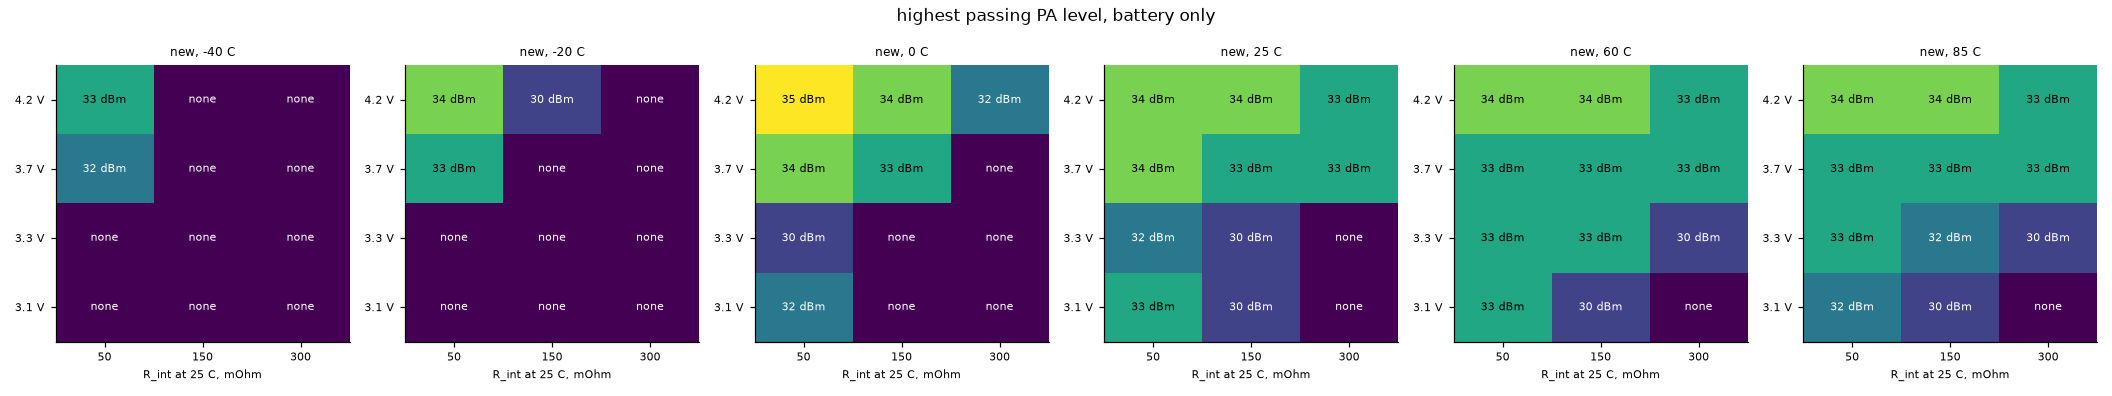
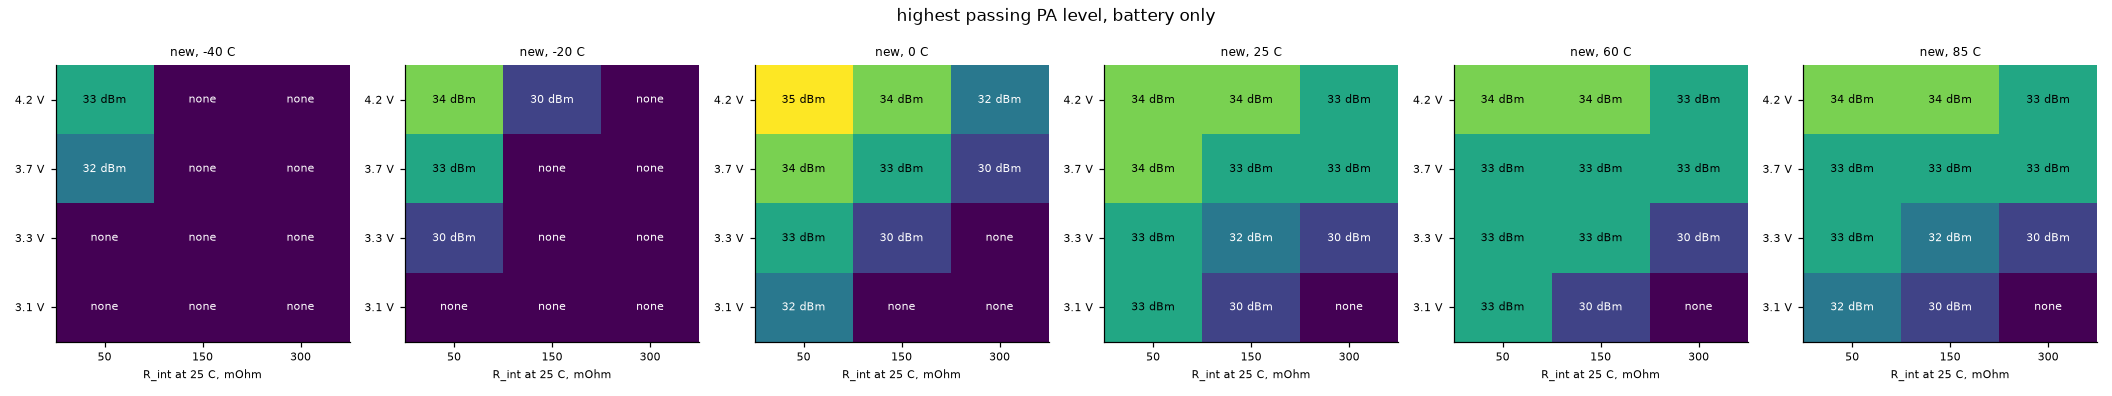
mesh-radio: power-path studies on the routed board
Track and via resistance extracted from the routed copper (sim/extract.py)
replaces the old estimates. The sense loop's 18 mOhm of copper halves the
cell protector's trip, so 3 W bursts no longer pass: a layout fix follows.

Claude-Session: https://claude.ai/code/session_015TBB2ThqxHSgA8MkFosmn9

Changed region(s): [[0.5, 0.5152, 0.6875, 0.697], [0.3438, 0.3333, 0.5, 0.697], [0.1875, 0.5152, 0.25, 0.697]]

diff --git a/mesh-radio/v1/sim/README.md b/mesh-radio/v1/sim/README.md
@@ -50,16 +50,16 @@ as changed on 19 Oct (next section).  Ambient corners -40 / -20 / 0 / 25 /
 | reverse cell into live pads (right-way cell pulled out under USB, then a reversed one) | PASS* | PASS* | PASS* | PASS | PASS | PASS* | 20 Oct: check-FET gate clamped (4.7 V zener): its gate stays in rating. Still 11-12 A (20-21 A before the routed board's copper) for ~0.2 ms until the protector trips (reverse FET 48 A pulsed rating). *At <= 0 C and (routed board) at 85 C the solver started unlatched, so those runs did not test it |
 | right-way cell, with and without USB | PASS | PASS | PASS | PASS | PASS | PASS | FET on ~3 ms after the plug |
 | shorts: 3V3 (also with USB), header 3V3, VPA; VSYS with a mid cell | PASS | PASS | PASS | PASS | PASS | PASS | VSYS: TPS22950 holds the cell to 1.0 A |
-| shorts: VSYS (fresh cell, and with USB), PA_IN (fresh cell) | PASS | PASS | **MARG** | **MARG** | **MARG** | **MARG** | routed board: was PASS.  The cell's share through the charger's BATFET (VSYS) or the mux's 4.5 A limit (PA_IN) is 3.0-4.5 A, over the protector's OCD now (2.1-3.8 A, was 4.8-6.7 A): it cuts the cell off after 20 ms, safely, but then the BAT_P restart rule applies (bench).  At -40 / -20 C the cell's R_int keeps the current under OCD |
+| shorts: VSYS (fresh cell, and with USB), PA_IN (fresh cell) | PASS | PASS | **MARG** | **MARG** | **MARG** | **MARG** | routed board: was PASS.  The cell's share through the charger's BATFET (VSYS) or the mux's 4.5 A limit (PA_IN) is 3.0-4.5 A, over the protector's OCD now (2.1-3.8 A over -40..85 C, was 4.6-7.0 A): it cuts the cell off after 20 ms, safely, but then the BAT_P restart rule applies (bench).  At -40 / -20 C the cell's R_int keeps the current under OCD |
 | shorts: BAT_P (cell terminals) | MARG | MARG | MARG | MARG | MARG | MARG | protector trips in ~0.3 ms (25 A peak, was 29 A; 48 A IDM FET); restart on the cell alone: bench |
 | burst 3 W, fresh cell 4.2 V / 50 mOhm | cap 2 W | **cap 2.5 W** | PASS | **cap 2.5 W** | **cap 2.5 W** | **cap 2.5 W** | routed board: was PASS at -20..85 C.  2.85 A from the cell is over the protector's OCD (2.8 A typ at 25 C, 18 mOhm of sense-loop copper): it trips 20 ms into the burst.  0 C passes by 1 % at the typical threshold |
 | burst 3 W, mid cell 3.7 V / 150 mOhm | no TX | no TX | cap 2 W | **cap 2 W** | **cap 2 W** | **cap 2 W** | routed board: was PASS at 25-85 C (OCD trip, or the TPS63810 resets on PA_IN at 2.5 W+) |
-| burst 1 W, worn cell 3.3 V / 300 mOhm | no TX | no TX | no TX | **no TX** | PASS | PASS | routed board: was PASS at 25 C (the 0.06 Ohm of BAT_P + PA_IN track and the sense copper take the last margin) |
+| burst 1 W, worn cell 3.3 V / 300 mOhm | no TX | no TX | no TX | PASS | PASS | PASS | unchanged |
 | cold start (switch on, first burst) | 1 W fresh cell only | | | | | | worn or 150 mOhm cells cannot burst at -40 C (R_int x9); unchanged |
 | hot: USB in, charging off, 3 bursts 1 / 2.5 / 3 W | | | | | | **1 W only** | routed board: was PASS at all three.  2.5 W: OCD trip (2.9 A; 85 C copper puts OCD at 2.5 A typ), 3 W: TPS63810 reset.  <= 0.16 mA into the cell (P7) |
 | USB in + mid cell 3.7 V / 150 mOhm, 3 W | | | | **FAIL** | | | routed board: was PASS.  The amplifier runs from the cell (IN1 priority): PA_IN falls to 1.9 V and the TPS63810 resets.  A firmware cap, like the battery-only rows |
 | USB only, no cell, 1 W (firmware sets PA_SRC_SYS) | | | | PASS | | | 1.6 W and up exceed the charger's 1.05 A input; unchanged |
-| USB in, cell too weak for 1 W: firmware sets PA_SRC_SYS | | | | **FAIL** | | | routed board: was PASS.  The mux's IN2 pin is 237 mOhm of VSYS track from the charger, 0.23 V below SYS at 0.96 A; when SYS sags to the cell (charger at its 1.05 A limit, supplement mode) the 3.1 V cell on IN1 is > 280 mV above IN2, the mux switches over and its 100 us gap resets the TPS63810 (the study's run stops on the solver at 4.67 ms; re-run with a 1 us step it shows the switch-over and reset at 4.7 ms) |
+| USB in, cell too weak for 1 W: firmware sets PA_SRC_SYS | | | | **FAIL** | | | routed board: was PASS.  The mux's IN2 pin is 237 mOhm of VSYS track from the charger, 0.23 V below SYS at 0.96 A; when SYS sags to the cell (charger at its 1.05 A limit, supplement mode) the 3.1 V cell on IN1 is > 280 mV above IN2, the mux switches over and its 100 us gap resets the TPS63810 at 4.7 ms |
 | solar 6 V panel (charges inside 0-45 C, <= 1 mA outside) and USB charge path | PASS | PASS | PASS | PASS | PASS | PASS | harvest 56 / 76 % of MPP (3.0 / 4.1 V cell), 37 / 53 % at 20 % sun (unchanged).  USB top-off of a 4.15 V cell: 115 mA (was 217 mA): the charger holds 4.2 V at its own BAT pin, 188 mOhm of BAT_P from the cell |
 | derating (E4) | | | | | | | 81 rows: 0 FAIL, 9 MARGINAL (3 W: QPA9510 2.3 A vs 2.4 A, TPS63810 output current and dissipation; BQ25185 ILIM at 1.1 A; nRF VBUS at OV max 96 % of abs max).  TPS2121 IN1 and TPS63810 input current dropped from MARGINAL (4.0 A) to PASS (2.8 A) only because the protector now trips before the bursts that loaded them |
 
@@ -87,11 +87,11 @@ worse:
   at 25 C, 2.08-2.88 A at 85 C (it was 4.8-6.7 A).  A 3 W burst draws
   2.7-3.7 A from the cell and the protector cuts it off 20 ms in.  The burst
   grid uses the typical 100 mV threshold; at the datasheet minimum (85 mV) a
-  2.5 W burst (2.1-2.6 A) can trip it too, so 2 W (<= 2.1 A) is the level
-  that holds on every part.  Fresh cell, 3 W: PASS -> cap 2.5 W at -20 C and
-  25-85 C; mid cell, 3 W: PASS -> cap 2 W at 25-85 C; worn cell, 1 W at
-  25 C: PASS -> no TX; hot USB case at 85 C: PASS -> 1 W only; USB + mid
-  cell at 3 W: PASS -> FAIL.  The firmware cap table is `burst/results.txt`.
+  2.5 W burst (2.1-2.6 A) can trip it too, and even 2 W (up to 2.1 A from a
+  3.3 V cell) is at the 85 C minimum (2.08 A).  Fresh cell, 3 W: PASS -> cap 2.5 W at -20 C and
+  25-85 C; mid cell, 3 W: PASS -> cap 2 W at 25-85 C; hot USB case at 85 C:
+  PASS -> 1 W only; USB + mid cell at 3 W: PASS -> FAIL.  1 W from mid and
+  worn cells is unchanged.  The firmware cap table is `burst/results.txt`.
 - **Weak cell with USB, firmware sets PA_SRC_SYS: PASS -> FAIL**, from the
   237 mOhm VSYS track to the mux's IN2 (Verdict note).
 - **Shorts on VSYS (fresh cell, with USB) and PA_IN: PASS -> MARGINAL at
